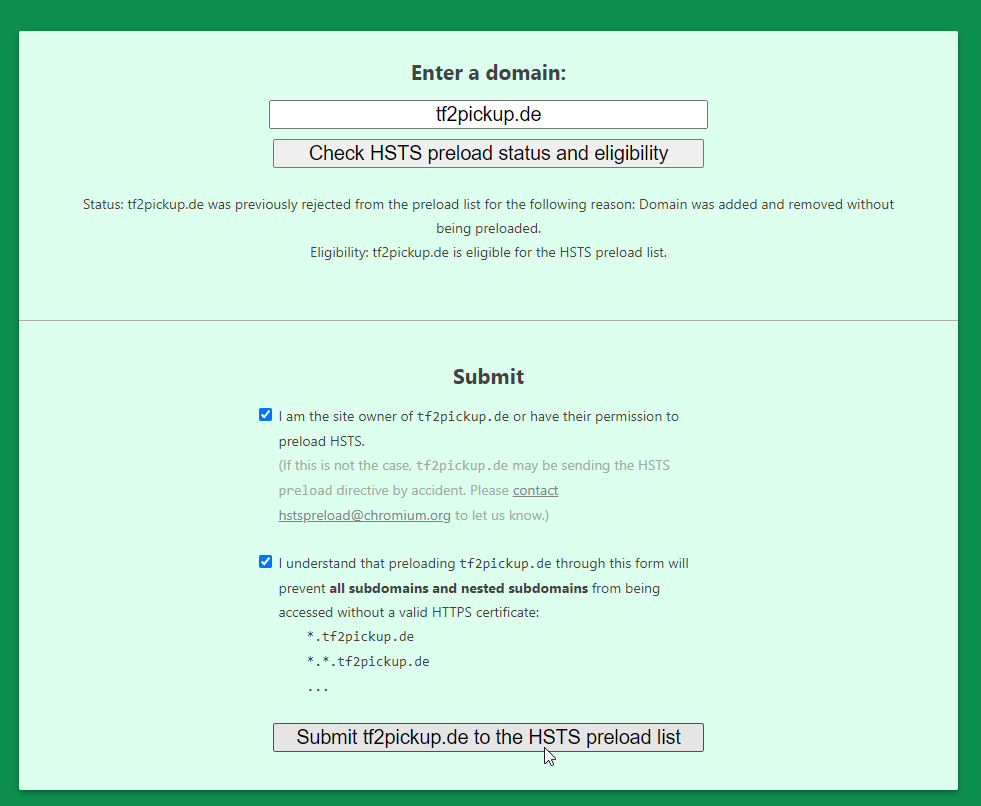
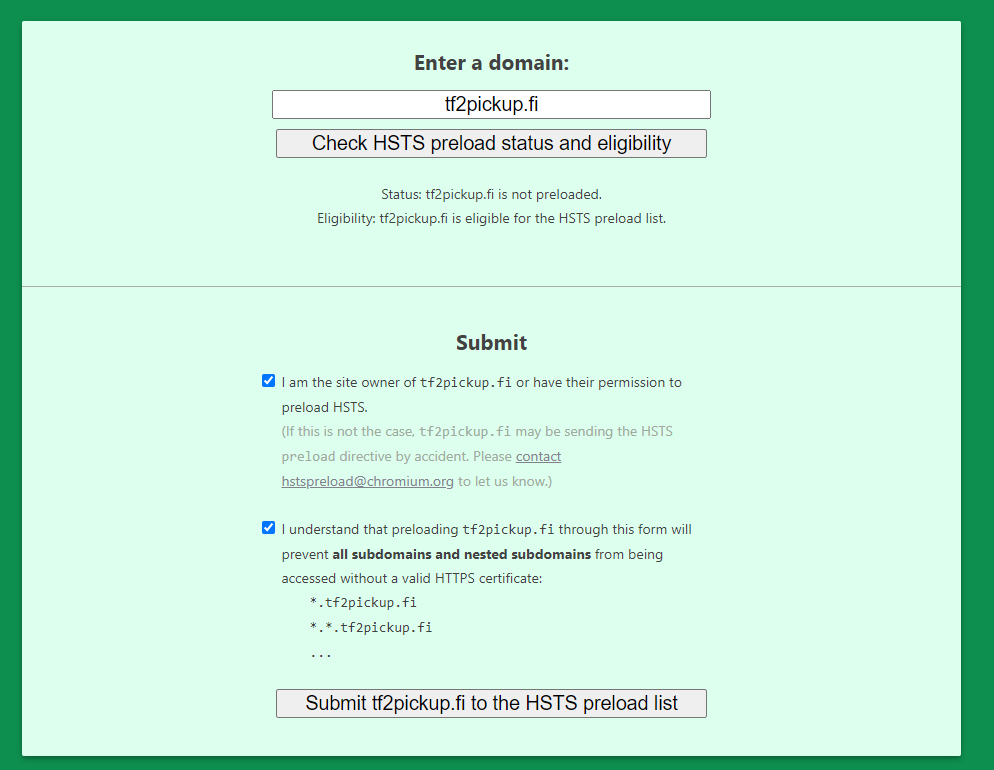
change test example from tf2pickup.de to tf2pickup.fi

diff --git a/docs/reverse-proxy-deployment.md b/docs/reverse-proxy-deployment.md
@@ -14,7 +14,7 @@ The following guide should be taken as an example, which is based on:
 - Nginx as a reverse proxy,
 - tf2pickup.org client and server hosted as containers on ports TCP 3000 for the server and TCP 4000 for the client.
 
-Following these instructions should lead to configuration assessed as [A+ in Qualsys SSL Labs](https://www.ssllabs.com/ssltest/analyze.html?d=tf2pickup.de) and [A+ in Mozilla Observatory](https://observatory.mozilla.org/analyze/tf2pickup.de) tests. Most of the configuration examples given are based on configuration from the [tf2pickup.de](https://tf2pickup.de) website.
+Following these instructions should lead to configuration assessed as [A+ in Qualsys SSL Labs](https://www.ssllabs.com/ssltest/analyze.html?d=tf2pickup.fi) and [A+ in Mozilla Observatory](https://observatory.mozilla.org/analyze/tf2pickup.fi) tests. Most of the configuration examples given are based on configuration from the [tf2pickup.fi](https://tf2pickup.fi) website.
 
 ## Domain name setup
 
@@ -94,7 +94,7 @@ Before getting certificates, a Cloudflare API token must be prepared for that ba
 After that, certificate should be able to be created by using the command (the `--agree-tos` and `-email` parameters must be given on a first certificate):
 
 ```sh
-certbot certonly --non-interactive -d 'tf2pickup.de' -d '*.tf2pickup.de' --dns-cloudflare --dns-cloudflare-credentials /root/.secrets/cloudflare --rsa-key-size 4096 --must-staple --agree-tos --email your-mailbox@you-are-really-using.com
+certbot certonly --non-interactive -d 'tf2pickup.fi' -d '*.tf2pickup.fi' --dns-cloudflare --dns-cloudflare-credentials /root/.secrets/cloudflare --rsa-key-size 4096 --must-staple --agree-tos --email your-mailbox@you-are-really-using.com
 ```
 
 In case of failure most likely you:
@@ -108,7 +108,7 @@ In case of failure most likely you:
 When certificate is obtained, we suggest you to leave these two commands in the root crontab file (opened by a command `crontab -e` as root):
 
 ```crontab
-0  1   20 * *   certbot certonly --non-interactive -d 'tf2pickup.de' -d '*.tf2pickup.de' --dns-cloudflare --dns-cloudflare-credentials /root/.secrets/cloudflare --rsa-key-size 4096 --must-staple
+0  1   20 * *   certbot certonly --non-interactive -d 'tf2pickup.fi' -d '*.tf2pickup.fi' --dns-cloudflare --dns-cloudflare-credentials /root/.secrets/cloudflare --rsa-key-size 4096 --must-staple
 5  1   20 * *   systemctl restart nginx
 ```
 
@@ -190,7 +190,7 @@ http {
 }
 ```
 
-``/etc/nginx/nginx/sites-available/tf2pickup.de``:
+``/etc/nginx/nginx/sites-available/tf2pickup.fi``:
 
 ```nginx
 map $http_upgrade $connection_upgrade {
@@ -200,22 +200,22 @@ map $http_upgrade $connection_upgrade {
 server {
         listen 80;
         #listen [::]:80; #IPv6 specific entry
-        server_name yu.tf2pickup.de;
-        return 302 https://tf2pickup.de$request_uri;
+        server_name yu.tf2pickup.fi;
+        return 302 https://tf2pickup.fi$request_uri;
 }
 server {
-        access_log /var/log/nginx/tf2pickup.de-access.log;
-        error_log /var/log/nginx/tf2pickup.de-error.log;
+        access_log /var/log/nginx/tf2pickup.fi-access.log;
+        error_log /var/log/nginx/tf2pickup.fi-error.log;
         listen 443 ssl http2;
         #listen [::]:443 ssl http2; #IPv6 specific entry
-        server_name tf2pickup.de;
-        ssl_certificate /etc/letsencrypt/live/tf2pickup.de/fullchain.pem;
-        ssl_certificate_key /etc/letsencrypt/live/tf2pickup.de/privkey.pem;
+        server_name tf2pickup.fi;
+        ssl_certificate /etc/letsencrypt/live/tf2pickup.fi/fullchain.pem;
+        ssl_certificate_key /etc/letsencrypt/live/tf2pickup.fi/privkey.pem;
         ssl_dhparam /etc/letsencrypt/ssl-dhparams.pem;
         ssl_stapling on;
         ssl_stapling_verify on;
         ssl_session_cache shared:ssl_session_cache:10m;
-        ssl_trusted_certificate /etc/letsencrypt/live/tf2pickup.de/chain.pem;
+        ssl_trusted_certificate /etc/letsencrypt/live/tf2pickup.fi/chain.pem;
         location / {
                 proxy_pass http://127.0.0.1:4000;
                 add_header Strict-Transport-Security "max-age=31536000; includeSubDomains; preload";
@@ -227,7 +227,7 @@ server {
 }
 ```
 
-``/etc/nginx/nginx/sites-available/api.tf2pickup.de``:
+``/etc/nginx/nginx/sites-available/api.tf2pickup.fi``:
 
 ```nginx
 map $http_upgrade $connection_upgrade {
@@ -237,22 +237,22 @@ map $http_upgrade $connection_upgrade {
 server {
         listen 80;
         #listen [::]:80; #IPv6 specific entry
-        server_name api.tf2pickup.de;
-        return 302 https://api.tf2pickup.de$request_uri;
+        server_name api.tf2pickup.fi;
+        return 302 https://api.tf2pickup.fi$request_uri;
 }
 server {
-        access_log /var/log/nginx/api.tf2pickup.de-access.log;
-        error_log /var/log/nginx/api.tf2pickup.de-error.log;
+        access_log /var/log/nginx/api.tf2pickup.fi-access.log;
+        error_log /var/log/nginx/api.tf2pickup.fi-error.log;
         listen 443 ssl http2;
         #listen [::]:443 ssl http2; #IPv6 specific entry
-        server_name api.tf2pickup.de;
-        ssl_certificate /etc/letsencrypt/live/tf2pickup.de/fullchain.pem;
-        ssl_certificate_key /etc/letsencrypt/live/tf2pickup.de/privkey.pem;
+        server_name api.tf2pickup.fi;
+        ssl_certificate /etc/letsencrypt/live/tf2pickup.fi/fullchain.pem;
+        ssl_certificate_key /etc/letsencrypt/live/tf2pickup.fi/privkey.pem;
         ssl_dhparam /etc/letsencrypt/ssl-dhparams.pem;
         ssl_stapling on;
         ssl_stapling_verify on;
         ssl_session_cache shared:ssl_session_cache:10m;
-        ssl_trusted_certificate /etc/letsencrypt/live/tf2pickup.pl/chain.pem;
+        ssl_trusted_certificate /etc/letsencrypt/live/tf2pickup.fi/chain.pem;
         location / {
                 proxy_pass http://127.0.0.1:3000;
                 add_header Strict-Transport-Security "max-age=31536000; includeSubDomains; preload";
@@ -267,8 +267,8 @@ server {
 After placing those files, make sure to create symlinks to them in the `/etc/nginx/sites-enabled`:
 
 ```sh
-# ln -s /etc/nginx/sites-available/api.tf2pickup.de /etc/nginx/sites-enabled/api.tf2pickup.de
-# ln -s /etc/nginx/sites-available/tf2pickup.de /etc/nginx/sites-enabled/tf2pickup.de
+# ln -s /etc/nginx/sites-available/api.tf2pickup.fi /etc/nginx/sites-enabled/api.tf2pickup.fi
+# ln -s /etc/nginx/sites-available/tf2pickup.fi /etc/nginx/sites-enabled/tf2pickup.fi
 ```
 
 When that is done, nginx should use these configs. Execute `nginx -t` in order to check if all configuration files are valid. You should expect the following output:
